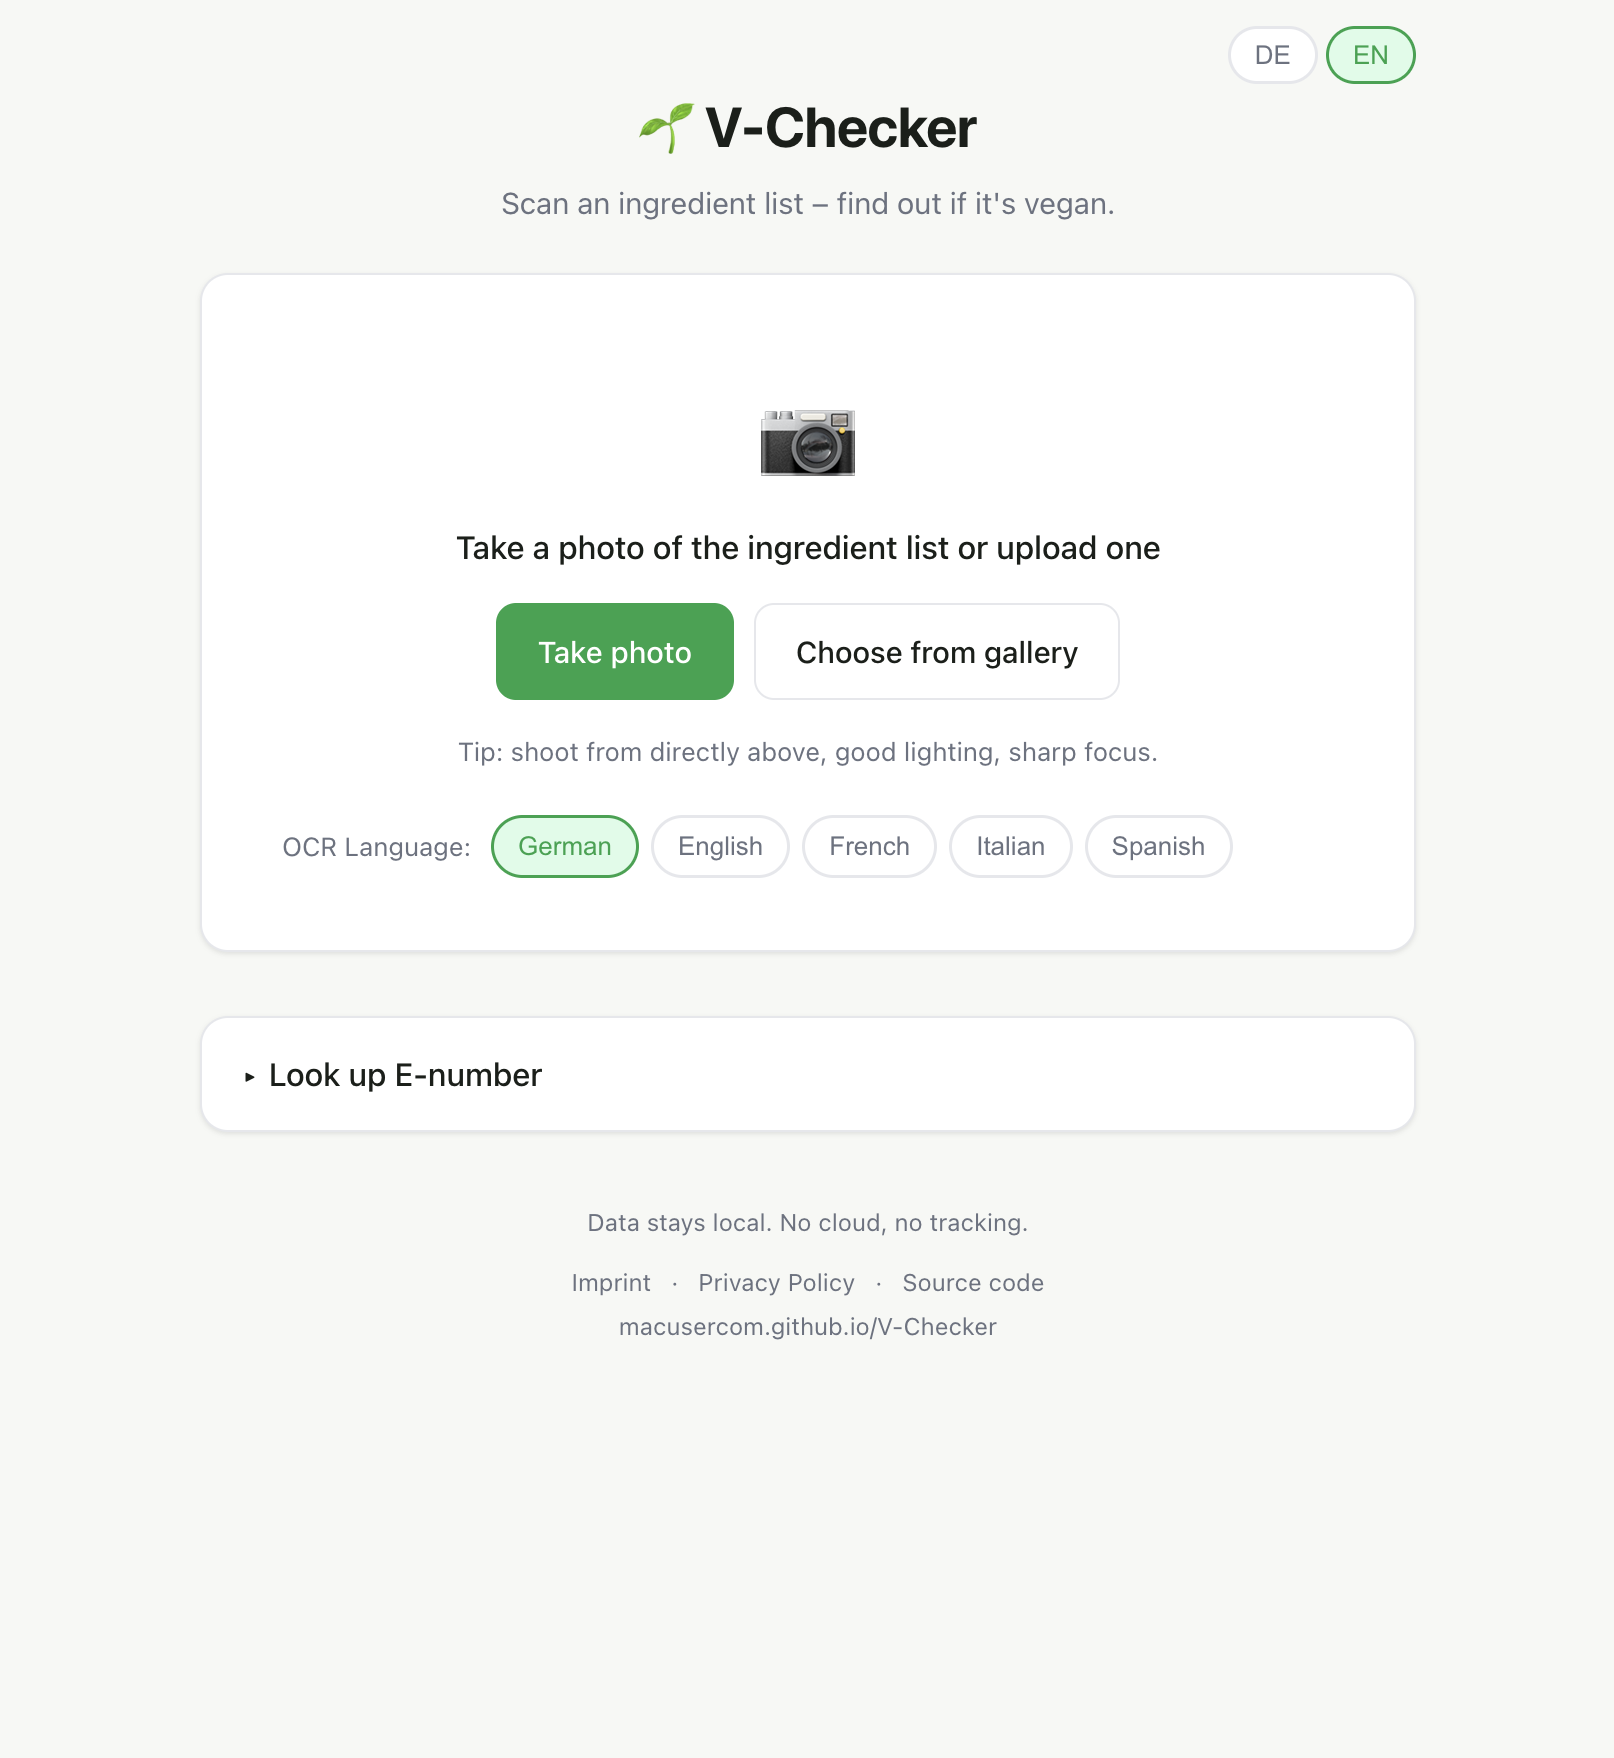
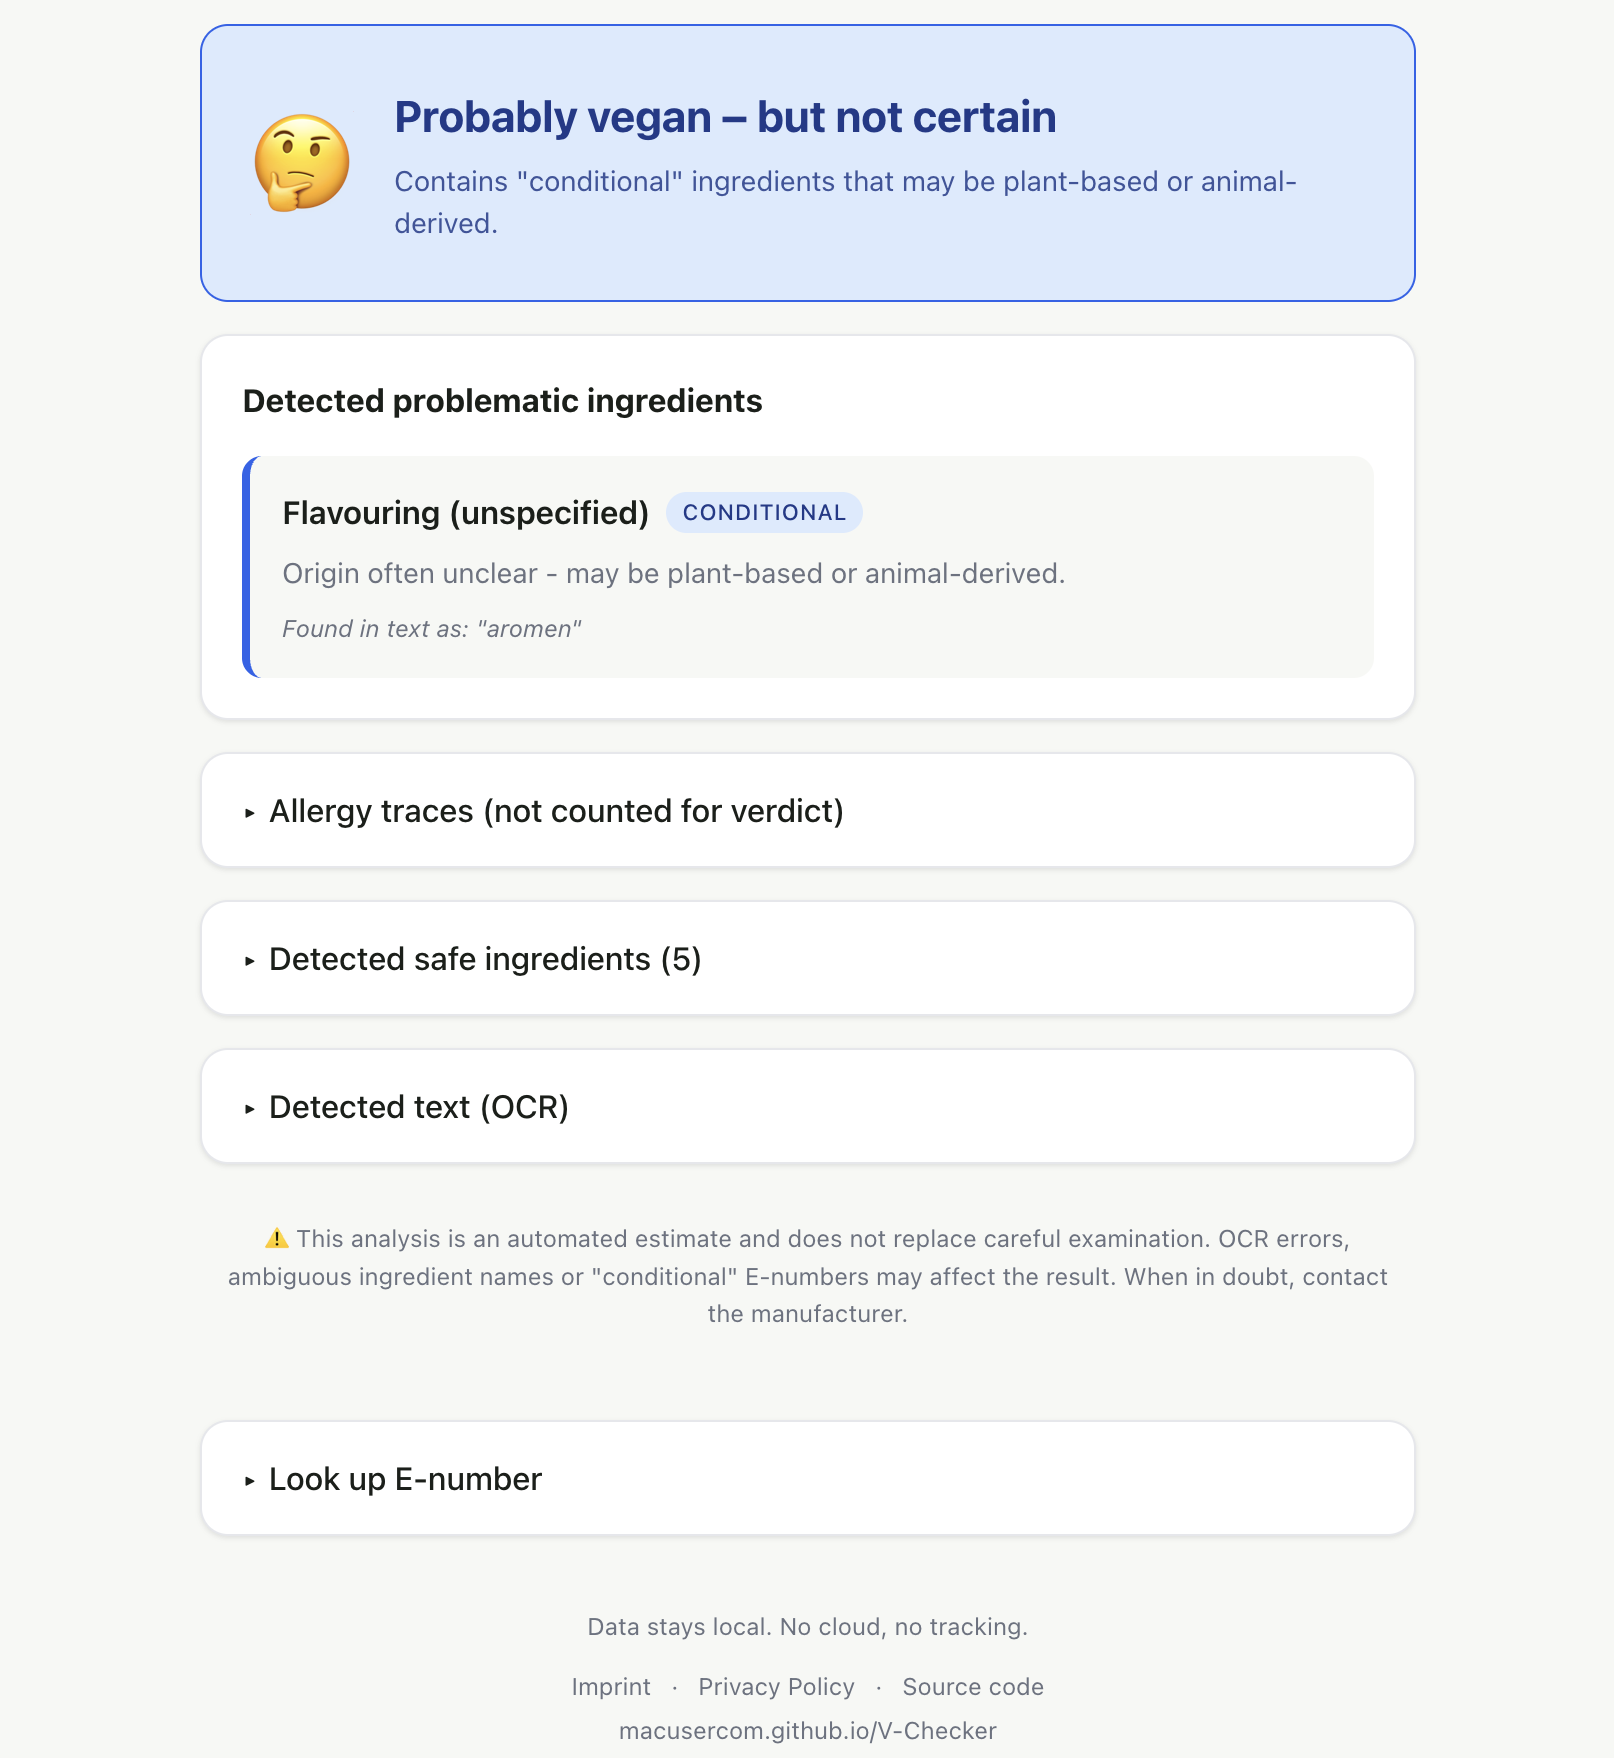
Screenshot name fix

diff --git a/README.md b/README.md
@@ -44,6 +44,6 @@ Then open [http://localhost:8000](http://localhost:8000) in your browser.
 ## Images
 ![Screenshot](images/image1.png)
 
-![Screenshot](images/image%202.png)
+![Screenshot](images/image2.png)
 
 ![Screenshot](images/image3.png)
